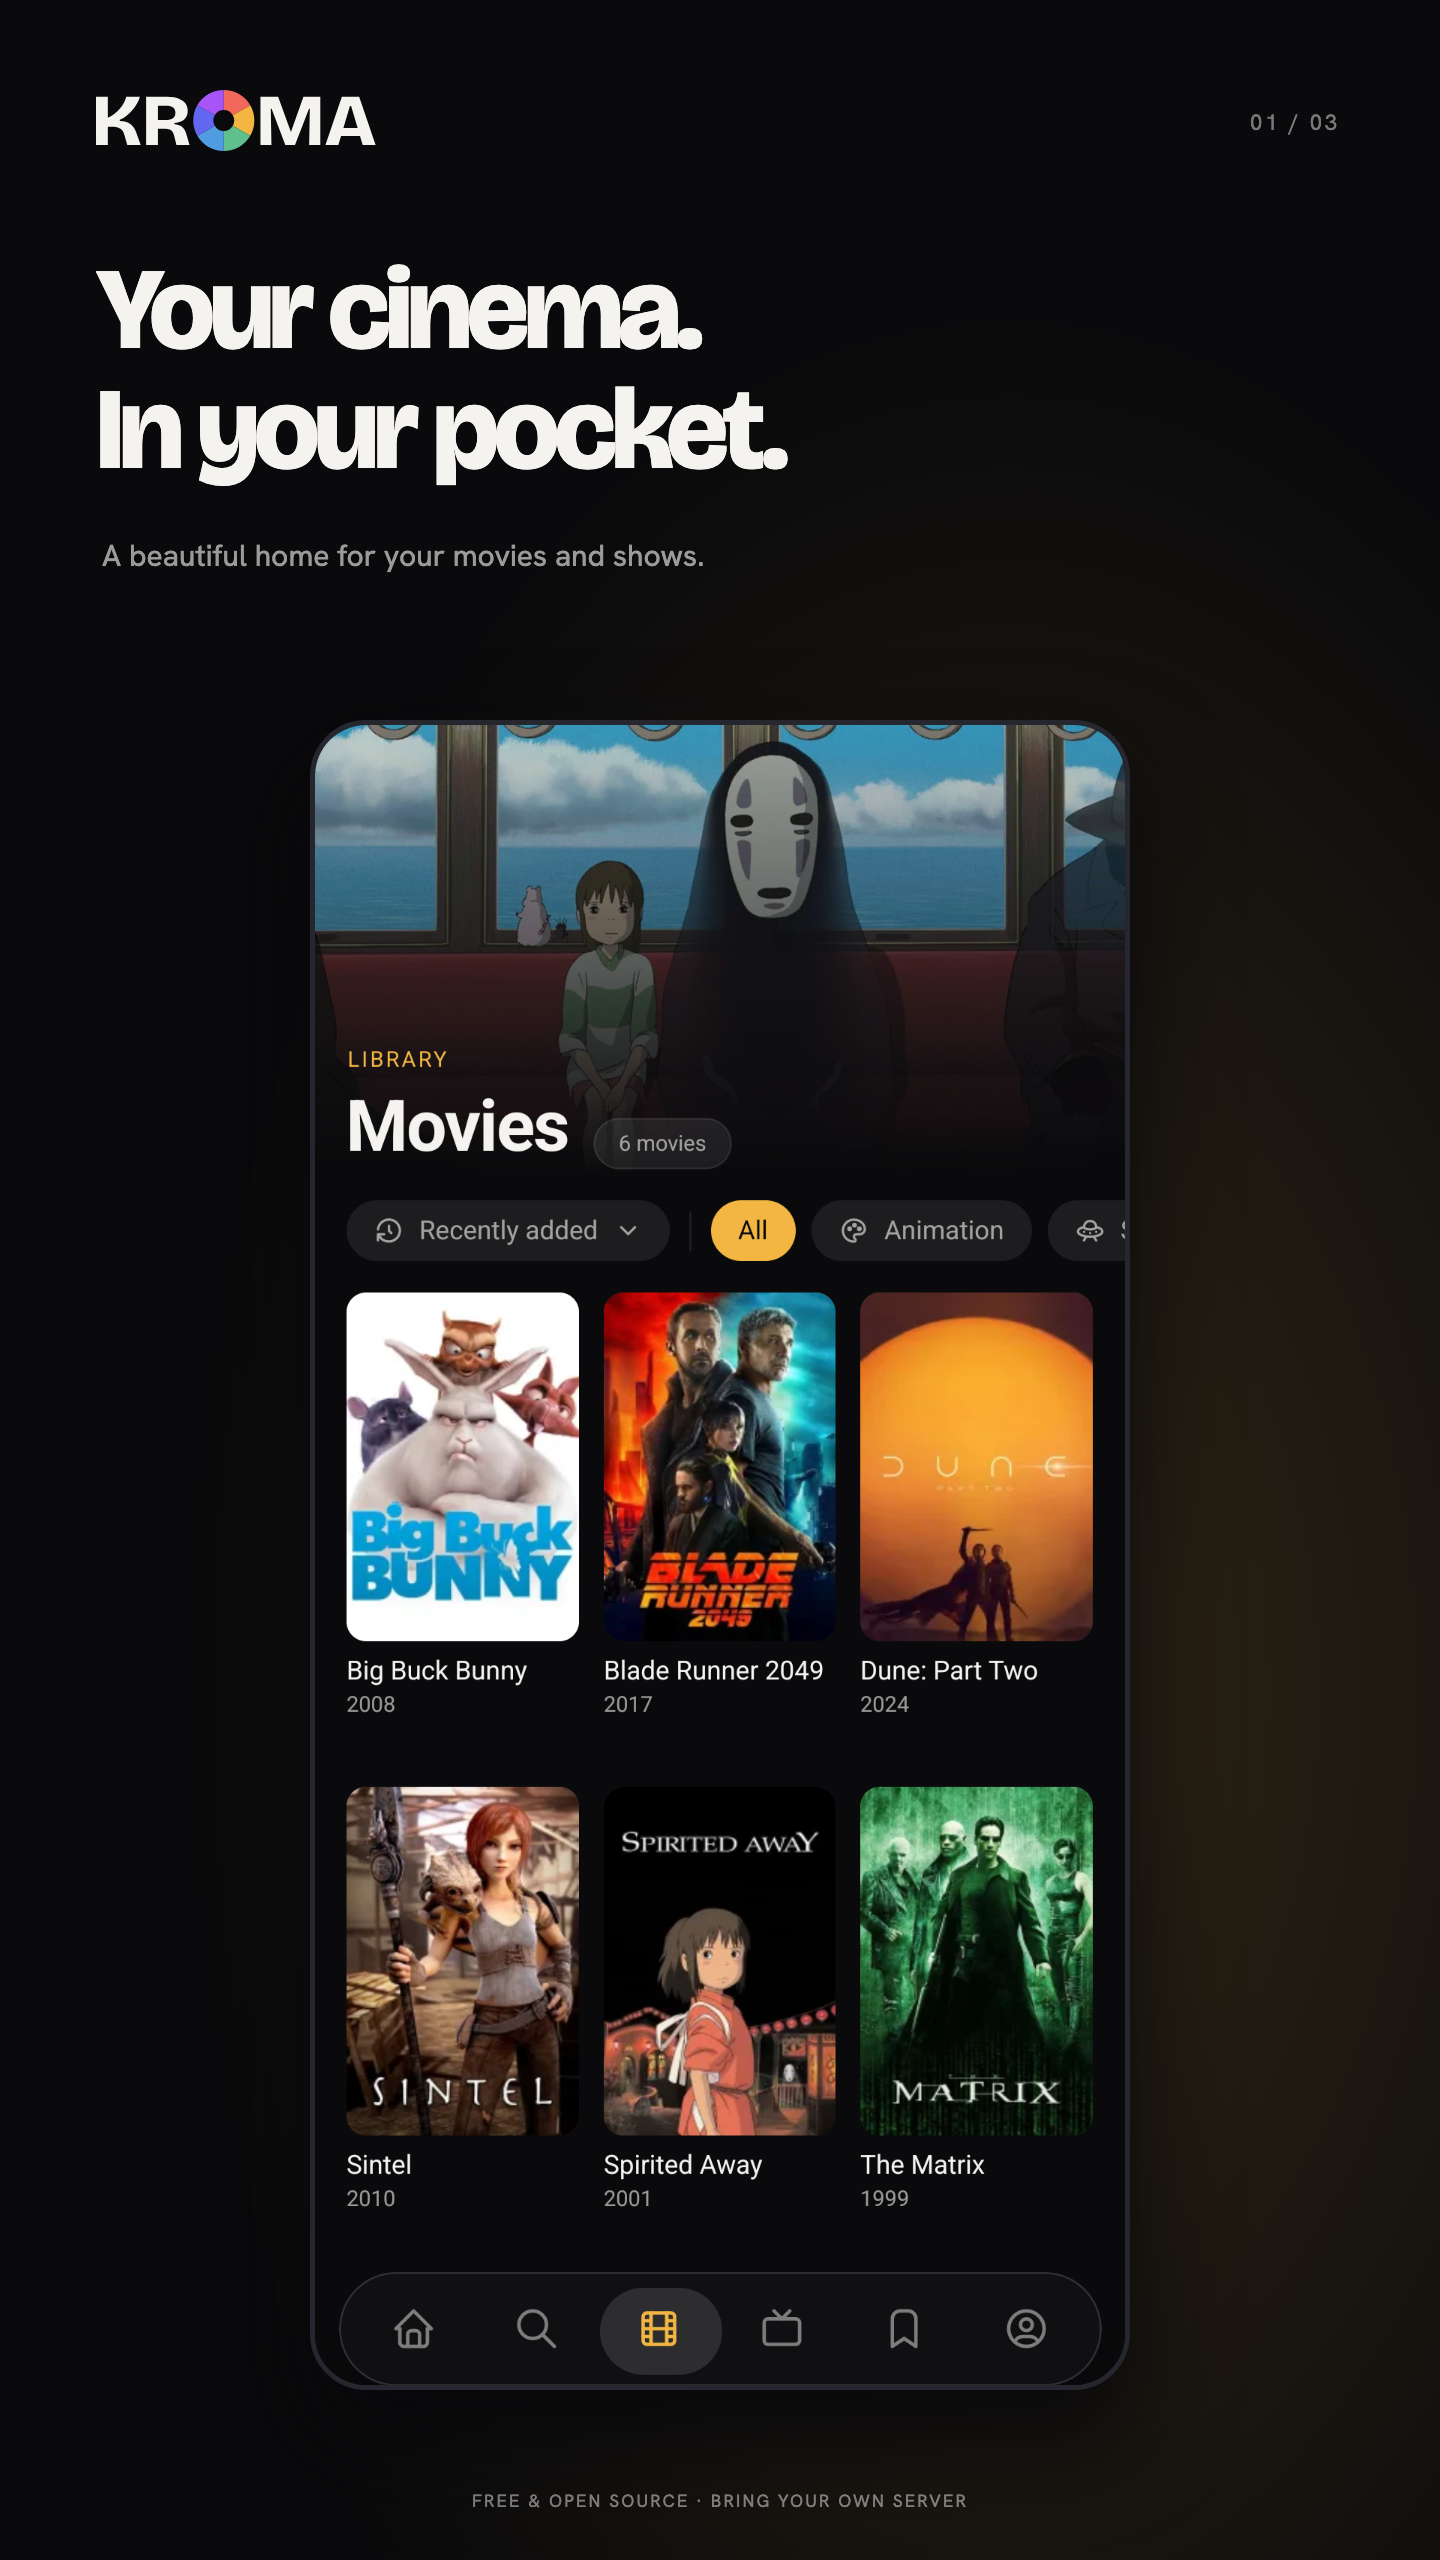
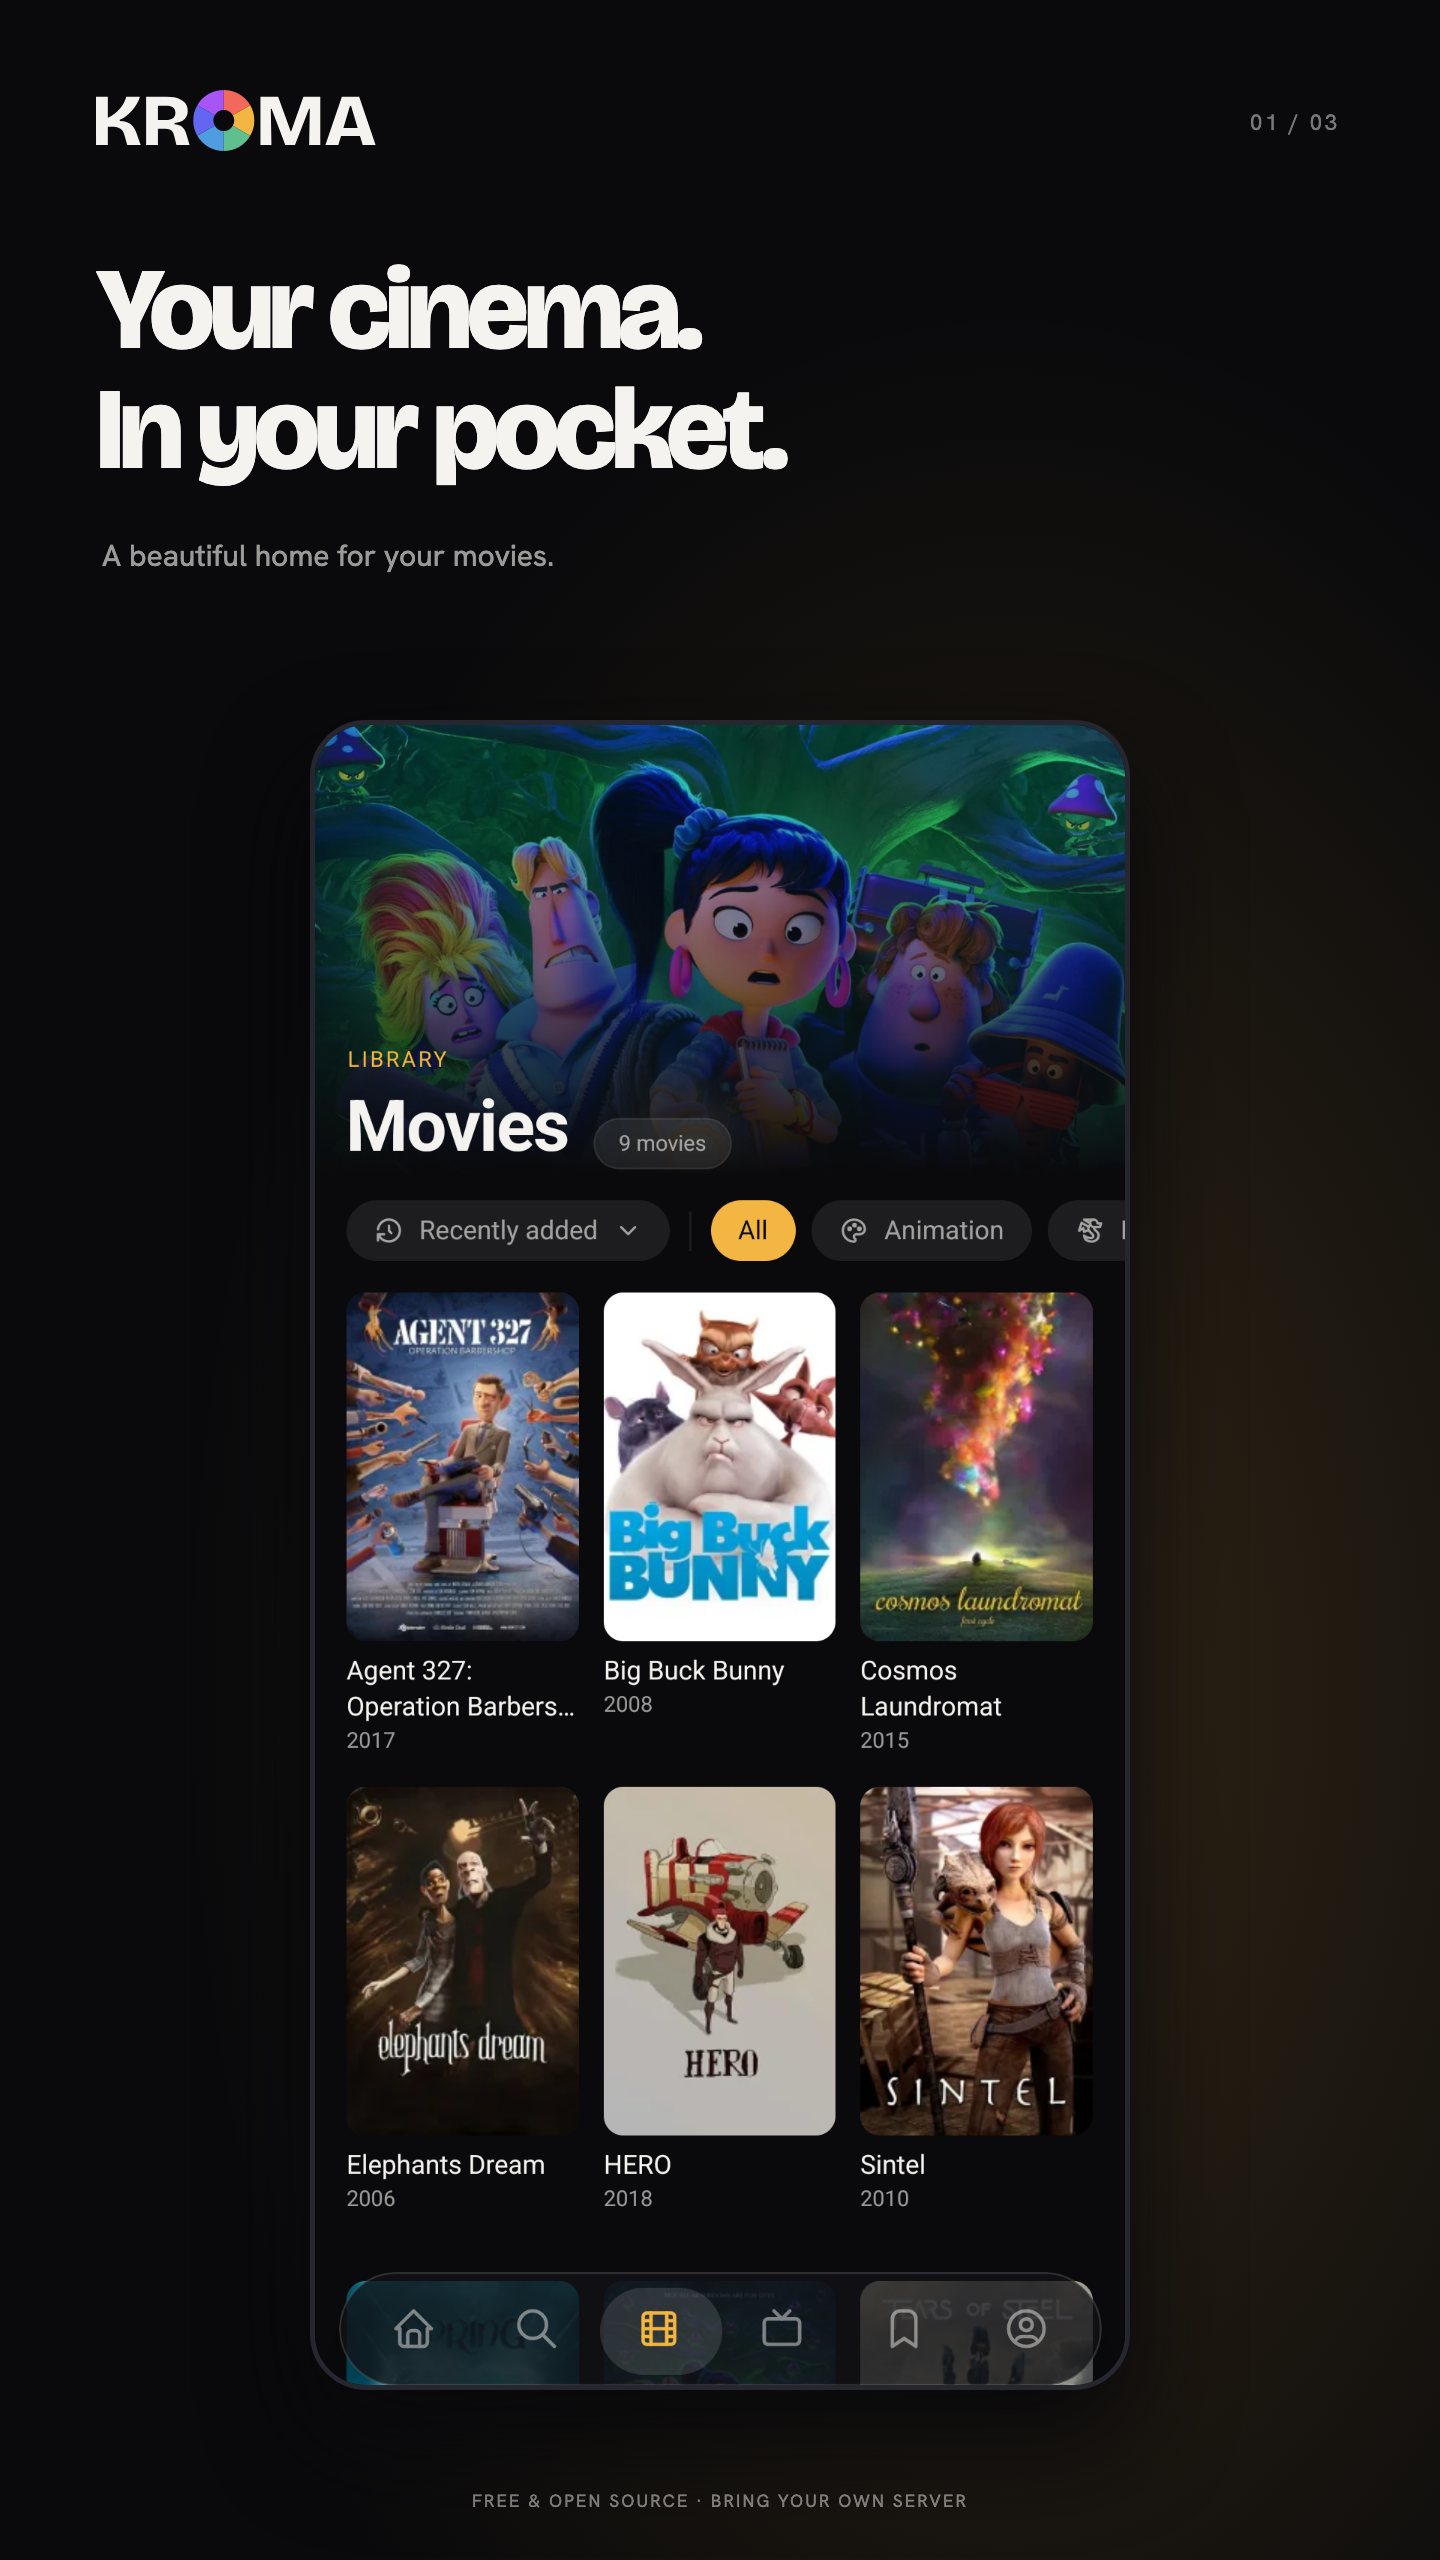
fix(store): phone screenshots show only Blender open films
The Play phone screenshots showed commercial posters from the demo
catalogue (Blade Runner 2049, Dune, The Matrix, Spirited Away), a copyright
risk at review. Recapture them from a release build against a throwaway
server holding only Blender open films.

That library has no series, so the third screen becomes the home screen,
named 03-home, and captions stop mentioning series. The README records
where the captures come from and why the demo catalogue must not be used.

Changed region(s): [[0.2188, 0.4688, 0.7812, 0.9375], [0.2188, 0.2812, 0.7812, 0.4375]]

diff --git a/clients/tv-build/play-store-art.ts b/clients/tv-build/play-store-art.ts
@@ -27,9 +27,13 @@ const captions = {
     featureBody: 'Your library, beautifully at home.',
     footer: 'FREE & OPEN SOURCE · BRING YOUR OWN SERVER',
     shots: [
-      ['01-movies', 'Your cinema.\nIn your pocket.', 'A beautiful home for your movies and shows.'],
+      ['01-movies', 'Your cinema.\nIn your pocket.', 'A beautiful home for your movies.'],
       ['02-detail', 'The story\nstarts here.', 'Artwork, cast and details, all in one place.'],
-      ['03-series', 'One more\nepisode?', 'Your series, organized by season.'],
+      [
+        '03-home',
+        'What’s on\ntonight?',
+        'Your list and latest additions, right on the home screen.',
+      ],
     ],
   },
   'fr-FR': {
@@ -37,13 +41,13 @@ const captions = {
     featureBody: 'Votre bibliothèque, chez vous.',
     footer: 'GRATUIT ET OPEN SOURCE · VOTRE PROPRE SERVEUR',
     shots: [
-      [
-        '01-movies',
-        'Votre cinéma.\nDans votre poche.',
-        'Vos films et séries ont trouvé leur place.',
-      ],
+      ['01-movies', 'Votre cinéma.\nDans votre poche.', 'Vos films ont trouvé leur place.'],
       ['02-detail', 'L’histoire\ncommence ici.', 'Affiches, distribution et détails réunis.'],
-      ['03-series', 'Encore\nun épisode ?', 'Vos séries, organisées par saison.'],
+      [
+        '03-home',
+        'On regarde\nquoi ce soir ?',
+        'Votre liste et vos derniers ajouts dès l’accueil.',
+      ],
     ],
   },
 } as const;

diff --git a/store/google-play/README.md b/store/google-play/README.md
@@ -15,7 +15,7 @@ The listing copy and uploadable PNGs use the Fastlane metadata layout under
 | Three TV screenshots | 1920 × 1080, 16:9 |
 
 The three screenshots tell a sequence: movie collection, movie details,
-and series with episodes. French exports have French marketing
+and the home screen. French exports have French marketing
 captions and the same English app captures. The metadata explains that KROMA
 requires a compatible server and the user's own media.
 
@@ -36,10 +36,12 @@ the fixed store canvases without a web server or an external design service.
 ## Native captures
 
 `captures/android-phone` contains original 1080 × 2400 PNGs from the current
-Android release build on an Android 14 emulator. The app connects to an isolated
-built-in demo catalogue and a fictional profile, with no household account or
-private library. The artwork is the demo catalogue's TMDB metadata; those titles
-are examples of a personal library and are not included with KROMA.
+Android release build on an Android 14 emulator. The app connects to a throwaway
+server whose library is only Blender open movies, with no household account or
+private library, so no commercial artwork reaches the listing. Do not recapture
+them against the built-in demo catalogue: it seeds commercial posters. Avoid
+detail pages with cast photos, so no real person appears on the listing. Spring
+and Big Buck Bunny have none.
 
 The export places each native capture in a simple frame and crops the Android
 system status/navigation bars. The app's interface and data are preserved.
